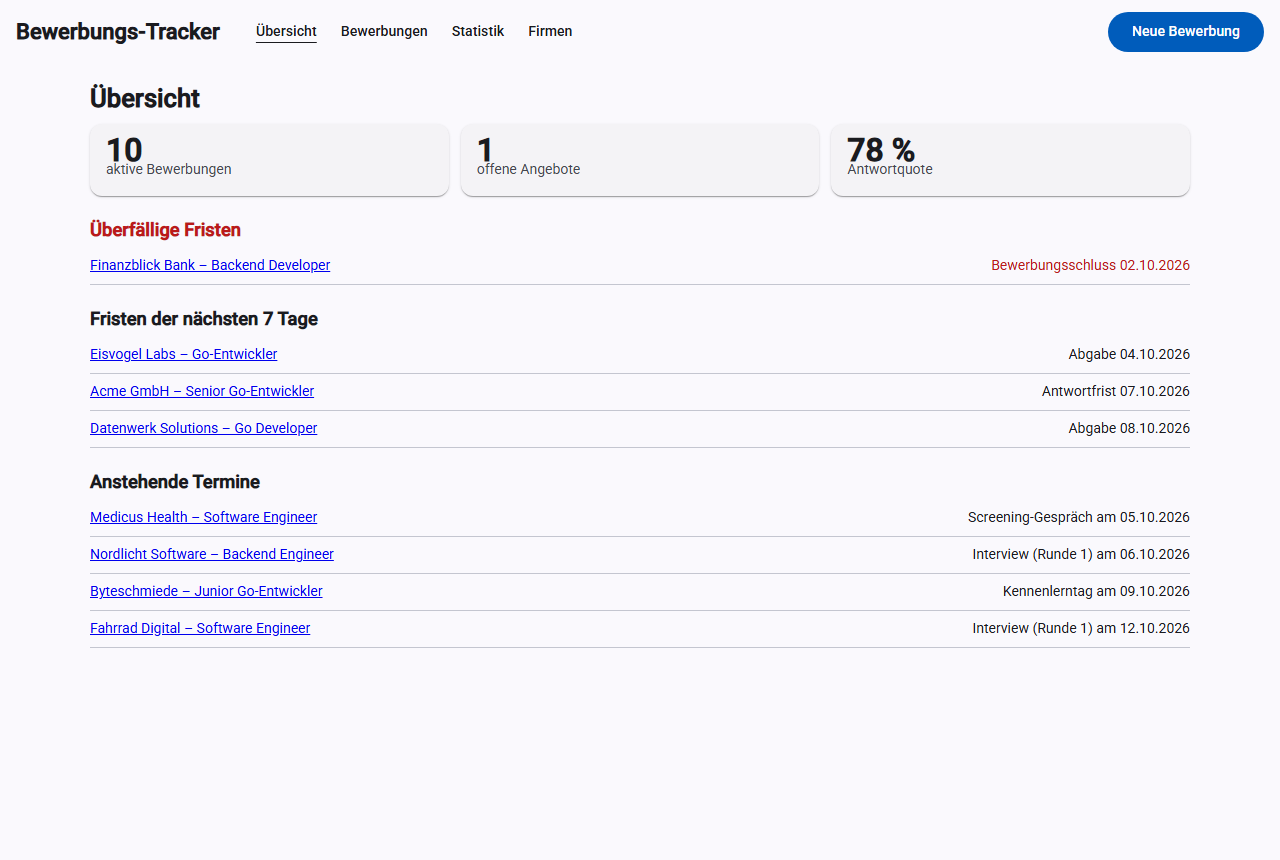
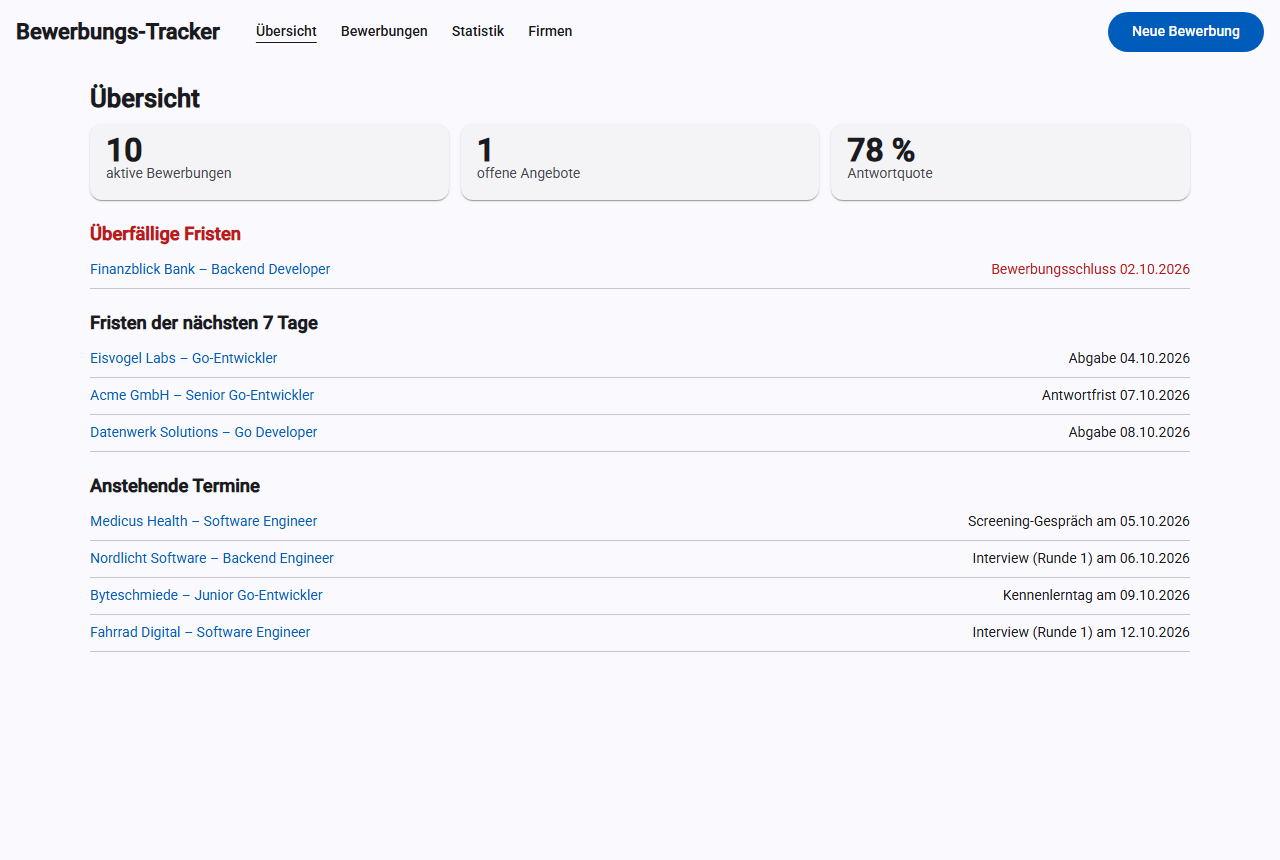
docs: Screenshots nach Layout-Anpassungen aktualisiert

diff --git a/docs/superpowers/plans/2026-10-03-betrieb-portfolio.md b/docs/superpowers/plans/2026-10-03-betrieb-portfolio.md
@@ -1139,7 +1139,7 @@ Wenn die CI grün ist, ganz oben im README unter der Überschrift ergänzen:
 
 ## Abschluss-Check
 
-- [ ] `task lint`, `task test`, `task test:frontend` grün
-- [ ] `task generate && git status --porcelain` leer
-- [ ] `docker compose up -d --build` startet sauber; nach `task seed` zeigen Dashboard und Statistik Daten
-- [ ] README-Bilder sind aktuell und zeigen gefüllte Seiten
+- [x] `task lint`, `task test`, `task test:frontend` grün
+- [x] `task generate && git status --porcelain` leer
+- [x] `docker compose up -d --build` startet sauber; nach `task seed` zeigen Dashboard und Statistik Daten
+- [x] README-Bilder sind aktuell und zeigen gefüllte Seiten
